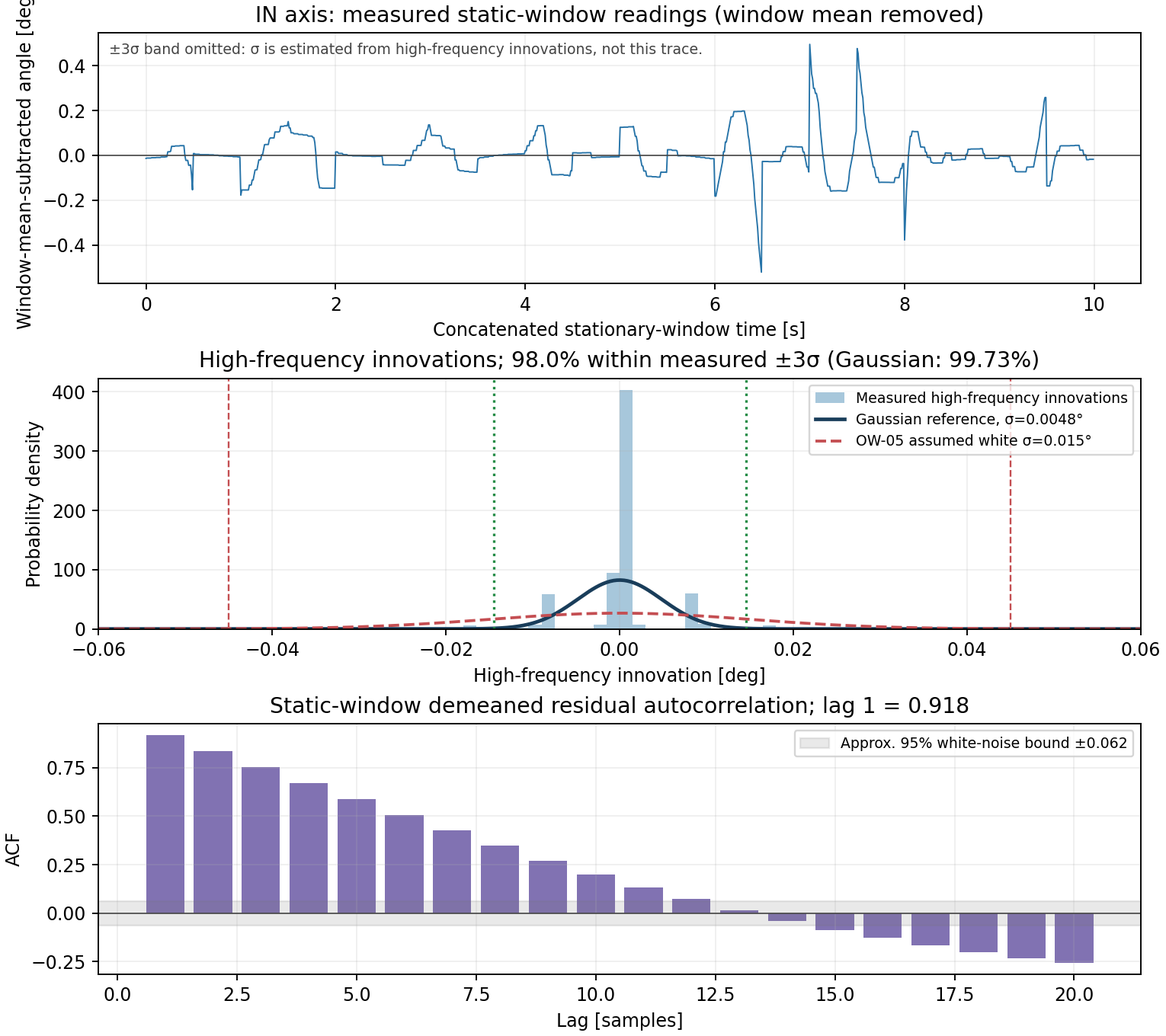
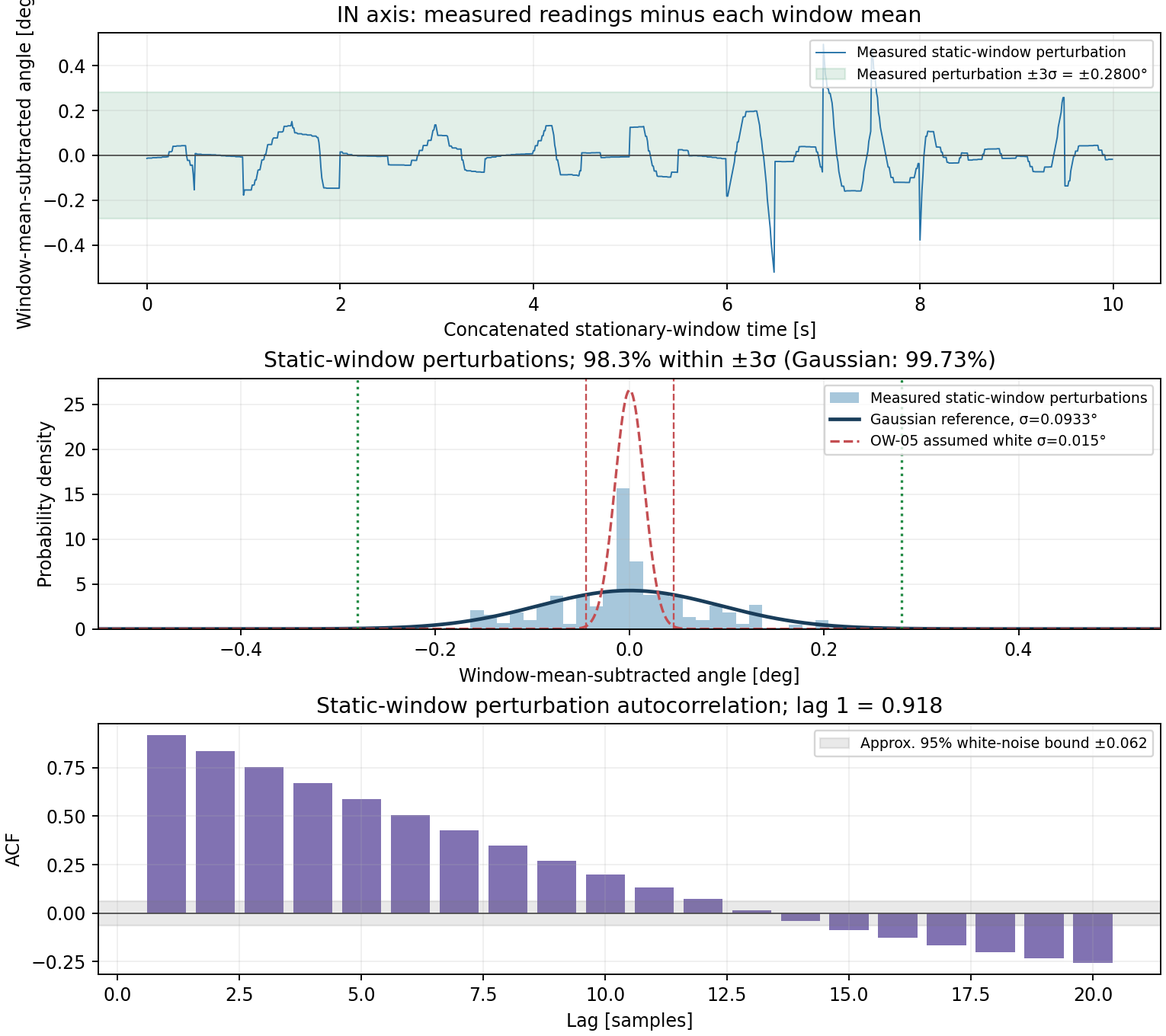
Use static-window mean perturbations for OW-05 sensor variability

diff --git a/06_Analysis/simulation/src/run_ow05_sensor_nonideality.py b/06_Analysis/simulation/src/run_ow05_sensor_nonideality.py
@@ -27,7 +27,7 @@ def write_csv(path, rows):
         w=csv.DictWriter(f,fieldnames=list(rows[0])); w.writeheader(); w.writerows(rows)
 
 def analyze_measured_sensor_noise():
-    """Estimate high-frequency angle noise from stationary pre-release intervals."""
+    """Measure each static-window angle perturbation from its own mean."""
     OUT.mkdir(parents=True,exist_ok=True)
     data_root=REPO/'04_Data/05_Fitting/20260921'
     selection_path=REPO/'06_Analysis/fitting_pipeline/results/20260921/waveform_review/waveform_selection.csv'
@@ -35,7 +35,7 @@ def analyze_measured_sensor_noise():
     selection=selection[(selection['use_for_fitting']==1)&(selection['review_status'].astype(str).str.upper()=='APPROVED')]
     tables={}
     estimates={}
-    window_n=50  # 0.5 s at 100 Hz
+    window_n=50
     for axis in ('IN','OUT'):
       angle_col='angle0[deg]' if axis=='IN' else 'angle1[deg]'
       windows=[]
@@ -50,8 +50,6 @@ def analyze_measured_sensor_noise():
         expected_sign=1.0 if str(record['direction']).upper().startswith('P') else -1.0
         selected=None
         selected_start=None
-        # Search backward for the closest 0.5 s window with a fixed high-angle
-        # hold, low spread and low linear drift, using the original split criteria.
         for end in range(event-10,max(window_n,event-1000),-10):
           start=end-window_n
           x=y[start:end]
@@ -64,40 +62,34 @@ def analyze_measured_sensor_noise():
             break
         if selected is None:
           continue
-        # Remove only each static window's mean: the plotted trace represents
-        # measured high-frequency fluctuation, without removing its waveform.
-        residual=selected-float(np.mean(selected))
-        # For independent sample noise, second difference has variance 1.5*sigma^2.
-        innovations=(residual[1:-1]-0.5*(residual[:-2]+residual[2:]))/np.sqrt(1.5)
+        perturbation=selected-float(np.mean(selected))
         windows.append({'segment_id':str(record['segment_id']),'data_file':relative_path,
                         'direction':str(record['direction']),'start_index':selected_start,
-                        'samples':window_n,'residual':residual,'innovations':innovations})
+                        'samples':window_n,'perturbation':perturbation})
       if not windows:
         raise RuntimeError('No stationary pre-release windows found for '+axis)
-      innovations=np.concatenate([w['innovations'] for w in windows])
-      residuals=[w['residual'] for w in windows]
-      sigma=float(np.std(innovations,ddof=1))
+      perturbations=np.concatenate([w['perturbation'] for w in windows])
+      sigma=float(np.std(perturbations,ddof=1))
       acf=[]
-      denominator=sum(float(np.dot(r,r)) for r in residuals)
+      denominator=sum(float(np.dot(w['perturbation'],w['perturbation'])) for w in windows)
       for lag in range(1,21):
-        numerator=sum(float(np.dot(r[:-lag],r[lag:])) for r in residuals)
+        numerator=sum(float(np.dot(w['perturbation'][:-lag],w['perturbation'][lag:])) for w in windows)
         acf.append(numerator/denominator if denominator>0 else 0.0)
-      normal=normaltest(innovations)
+      normal=normaltest(perturbations)
       estimates[axis]={
-        'n_windows':len(windows),'n_samples':int(sum(len(r) for r in residuals)),
-        'n_innovations':len(innovations),'white_equivalent_sigma_deg':sigma,
-        'three_sigma_deg':3*sigma,'assumed_white_sigma_deg':0.015,
-        'assumed_white_three_sigma_deg':0.045,
-        'innovation_skewness':float(skew(innovations)),
-        'innovation_excess_kurtosis':float(kurtosis(innovations)),
+        'n_windows':len(windows),'n_samples':int(len(perturbations)),
+        'static_perturbation_sigma_deg':sigma,'three_sigma_deg':3*sigma,
+        'assumed_white_sigma_deg':0.015,'assumed_white_three_sigma_deg':0.045,
+        'skewness':float(skew(perturbations)),
+        'excess_kurtosis':float(kurtosis(perturbations)),
         'normality_k2':float(normal.statistic),'normality_p_value':float(normal.pvalue),
-        'fraction_within_three_sigma':float(np.mean(np.abs(innovations)<=3*sigma)),
-        'residual_acf_lag1':float(acf[0]),'acf_95_bound':float(1.96/np.sqrt(sum(len(r) for r in residuals))),
-        'acf':acf,'windows':windows,'innovations':innovations,'residuals':residuals}
-    # Compact machine-readable summary and per-window audit trail.
+        'fraction_within_three_sigma':float(np.mean(np.abs(perturbations)<=3*sigma)),
+        'residual_acf_lag1':float(acf[0]),
+        'acf_95_bound':float(1.96/np.sqrt(len(perturbations))),
+        'acf':acf,'windows':windows,'perturbations':perturbations}
     summary_rows=[]
     for axis,v in estimates.items():
-      summary_rows.append({k:value for k,value in v.items() if k not in ('acf','windows','innovations','residuals')})
+      summary_rows.append({k:value for k,value in v.items() if k not in ('acf','windows','perturbations')})
     write_csv(OUT/'ow05_measured_noise_summary.csv',summary_rows)
     window_rows=[]
     for axis,v in estimates.items():
@@ -105,38 +97,50 @@ def analyze_measured_sensor_noise():
         window_rows.append({'axis':axis,'segment_id':w['segment_id'],'data_file':w['data_file'],
                             'direction':w['direction'],'start_index':w['start_index'],
                             'samples':w['samples'],'duration_s':w['samples']/100.0,
-                            'innovation_sigma_deg':float(np.std(w['innovations'],ddof=1))})
+                            'perturbation_sigma_deg':float(np.std(w['perturbation'],ddof=1))})
     write_csv(OUT/'ow05_measured_noise_windows.csv',window_rows)
     for axis,v in estimates.items():
       fig,axes=plt.subplots(3,1,figsize=(9,8),layout='constrained')
-      residuals=v['residuals']; sigma=v['white_equivalent_sigma_deg']
-      joined=np.concatenate(residuals)
-      axes[0].plot(np.arange(len(joined))*0.01,joined,lw=.8,color='#2673a8')
-      axes[0].text(.01,.96,'±3σ band omitted: σ is estimated from high-frequency innovations, not this trace.',transform=axes[0].transAxes,va='top',fontsize=8,color='#444')
-      axes[0].axhline(0,color='#444',lw=.7); axes[0].set_ylabel('Window-mean-subtracted angle [deg]')
-      axes[0].set_xlabel('Concatenated stationary-window time [s]'); axes[0].set_title(f'{axis} axis: measured static-window readings (window mean removed)')
-      axes[0].legend(loc='upper right'); axes[0].grid(alpha=.2)
-      e=v['innovations']; bins=np.linspace(-0.06,0.06,81)
-      axes[1].hist(e,bins=bins,density=True,color='#79a9c9',alpha=.65,label='Measured high-frequency innovations')
-      xx=np.linspace(-.06,.06,600)
+      perturbations=v['perturbations']; sigma=v['static_perturbation_sigma_deg']
+      axes[0].plot(np.arange(len(perturbations))*0.01,perturbations,lw=.8,color='#2673a8',
+                   label='Measured static-window perturbation')
+      axes[0].axhspan(-3*sigma,3*sigma,color='#4c9f70',alpha=.16,
+                      label=f'Measured perturbation ±3σ = ±{3*sigma:.4f}°')
+      axes[0].axhline(0,color='#444',lw=.7)
+      axes[0].set_ylabel('Window-mean-subtracted angle [deg]')
+      axes[0].set_xlabel('Concatenated stationary-window time [s]')
+      axes[0].set_title(f'{axis} axis: measured readings minus each window mean')
+      axes[0].legend(loc='upper right',fontsize=8); axes[0].grid(alpha=.2)
+      limit=max(float(np.max(np.abs(perturbations))*1.05),3*sigma*1.15)
+      bins=np.linspace(-limit,limit,81)
+      axes[1].hist(perturbations,bins=bins,density=True,color='#79a9c9',alpha=.65,
+                   label='Measured static-window perturbations')
+      xx=np.linspace(-limit,limit,800)
       gaussian=np.exp(-0.5*(xx/sigma)**2)/(sigma*np.sqrt(2*np.pi))
-      model_sigma=.015
+      model_sigma=0.015
       model_gaussian=np.exp(-0.5*(xx/model_sigma)**2)/(model_sigma*np.sqrt(2*np.pi))
-      axes[1].plot(xx,gaussian,color='#193d5a',lw=2,label=f'Gaussian reference, σ={sigma:.4f}°')
-      axes[1].plot(xx,model_gaussian,color='#c44e52',ls='--',lw=1.6,label='OW-05 assumed white σ=0.015°')
-      axes[1].axvline(-3*sigma,color='#238b45',ls=':',lw=1.4); axes[1].axvline(3*sigma,color='#238b45',ls=':',lw=1.4)
-      axes[1].axvline(-3*model_sigma,color='#c44e52',ls='--',lw=1); axes[1].axvline(3*model_sigma,color='#c44e52',ls='--',lw=1)
-      axes[1].set_xlim(-.06,.06); axes[1].set_ylabel('Probability density'); axes[1].set_xlabel('High-frequency innovation [deg]')
-      axes[1].set_title(f"High-frequency innovations; {100*v['fraction_within_three_sigma']:.1f}% within measured ±3σ (Gaussian: 99.73%)")
+      axes[1].plot(xx,gaussian,color='#193d5a',lw=2,
+                   label=f'Gaussian reference, σ={sigma:.4f}°')
+      axes[1].plot(xx,model_gaussian,color='#c44e52',ls='--',lw=1.4,
+                   label='OW-05 assumed white σ=0.015°')
+      axes[1].axvline(-3*sigma,color='#238b45',ls=':',lw=1.4)
+      axes[1].axvline(3*sigma,color='#238b45',ls=':',lw=1.4)
+      axes[1].axvline(-3*model_sigma,color='#c44e52',ls='--',lw=1)
+      axes[1].axvline(3*model_sigma,color='#c44e52',ls='--',lw=1)
+      axes[1].set_xlim(-limit,limit); axes[1].set_ylabel('Probability density')
+      axes[1].set_xlabel('Window-mean-subtracted angle [deg]')
+      axes[1].set_title(f"Static-window perturbations; {100*v['fraction_within_three_sigma']:.1f}% within ±3σ (Gaussian: 99.73%)")
       axes[1].legend(loc='upper right',fontsize=8); axes[1].grid(alpha=.2)
       lags=np.arange(1,len(v['acf'])+1); bound=v['acf_95_bound']
-      axes[2].bar(lags,v['acf'],color='#8172b2',width=.8); axes[2].axhline(0,color='#444',lw=.7)
-      axes[2].axhspan(-bound,bound,color='#777',alpha=.16,label=f'Approx. 95% white-noise bound ±{bound:.3f}')
-      axes[2].set_xlabel('Lag [samples]'); axes[2].set_ylabel('ACF'); axes[2].set_title(f"Static-window demeaned residual autocorrelation; lag 1 = {v['residual_acf_lag1']:.3f}")
+      axes[2].bar(lags,v['acf'],color='#8172b2',width=.8)
+      axes[2].axhline(0,color='#444',lw=.7)
+      axes[2].axhspan(-bound,bound,color='#777',alpha=.16,
+                      label=f'Approx. 95% white-noise bound ±{bound:.3f}')
+      axes[2].set_xlabel('Lag [samples]'); axes[2].set_ylabel('ACF')
+      axes[2].set_title(f"Static-window perturbation autocorrelation; lag 1 = {v['residual_acf_lag1']:.3f}")
       axes[2].legend(loc='upper right',fontsize=8); axes[2].grid(alpha=.2)
       fig.savefig(OUT/f'ow05_measured_noise_{axis.lower()}.png',dpi=170); plt.close(fig)
     return estimates
-
 def run():
     cfg=json.loads((SIM/'config/ow03_hbk_observer_tuning.json').read_text())
     scfg=json.loads((SIM/'config/sensor_model_stage3.json').read_text())
@@ -232,16 +236,19 @@ def run():
       vals={r['method']:r for r in rows if r['case']==cname and r['axis']==axis and r['sensor_case']=='nominal'}
       report.append(f"| {cname} | {axis} | {vals['ESO 3状態']['rmse_m_s']:.5f} m/s | {vals['RTS 3状態（オフライン）']['rmse_m_s']:.5f} m/s |")
     report += ['', '## センサー条件', '',f"角度サンプルは{rate:.0f} Hz、MT6701の14 bit（量子化幅{360/2**14:.8f}°）、白色ノイズσ={pars.white_noise_std_deg:.3f}°、有色ノイズσ={pars.coloured_noise_std_deg:.3f}°・時定数{pars.coloured_noise_time_constant_s:.3f} s、固定遅延{pars.fixed_delay_s*1000:.0f} msを公称条件とした。センサー段階評価に従った設定であり、量子化/サンプリング仕様以外のノイズと遅延は実測前の暫定仮定である。感度としてノイズσを2倍にした条件も計算した。", '',
-      '## MT6701の計測角出力誤差と静止区間の変動','',
-      '本レポートでは、MT6701を含む計測系を真の角度 $\\theta_{\\mathrm{true}}$ から計測角 $\\theta_{\\mathrm{meas}}$ への変換と定義し、センサー出力誤差 $e_s=\\theta_{\\mathrm{meas}}-\\theta_{\\mathrm{true}}$ には量子化や内部信号処理の誤差も含める。今回のログには同時刻の真角度基準がないため、この誤差を直接計算できない。自由振動開始前のリリース直前から、符号付き角度35°超、0.5秒間の標準偏差0.20°未満、線形ドリフト1°/s未満となる静止窓を抽出し、計測角の変動を評価した。一次傾向を除いた残差 r_i に二階差分 $e_i=(r_i-(r_{i-1}+r_{i+1})/2)/\\sqrt{1.5}$ を適用した。独立な白色成分なら変換後のσはその成分の標準偏差に対応するが、実角度の微小変化も混在し得る。以下のσはセンサー出力誤差ではなく、記録された計測角の高周波変動相当値である。', '',
-      '| 軸 | 静止窓数 | 高周波点数 | 計測角変動相当σ [°] | 変動相当±3σ [°] | OW-05仮定白色σ [°] | 仮定/変動相当 |','|---|---:|---:|---:|---:|---:|---:|']
+     ]
+    report += ['', '## MT6701の計測角出力誤差と静止窓内の摂動','',
+      '今回の目的は、センサー単体の誤差を同定することではなく、静止と判定した窓で記録角が窓平均からどれだけ変動したかを把握することである。各窓の平均だけを差し引き、摂動 r_i=y_i-mean(y_window) をそのまま評価した。二階差分は使わない。静止判定条件は、符号付き角度35°超、0.5秒窓の標準偏差0.20°未満、線形ドリフト1°/s未満である。', '',
+      '静止窓内の摂動標準偏差は、全選定窓の r_i を結合して算出した。これは記録角に現れた窓内変動であり、真角度基準がないため、実際の微小運動とセンサー出力変動を分離できない。センサー出力誤差 e_s=θ_meas-θ_true やセンサー単体ノイズとは区別する。', '',
+      '| 軸 | 静止窓数 | 摂動点数 | 摂動σ [°] | ±3σ [°] | ±3σ内 [%] | 正規性検定 p値 | ラグ1自己相関 |','|---:|---:|---:|---:|---:|---:|---:|---:|']
     for axis,v in measured_noise.items():
-      report.append(f"| {axis} | {v['n_windows']} | {v['n_innovations']} | {v['white_equivalent_sigma_deg']:.5f} | ±{v['three_sigma_deg']:.5f} | 0.01500 | {0.015/v['white_equivalent_sigma_deg']:.2f}× |")
-    report += ['', '図の上段の青線は静止窓で実際に記録した計測角から一次傾向を除いた残差である。中央の棒はその残差から計算した高周波変動の実測分布である。濃い青線は実測波形ではなく、表の計測角変動相当σを用いて重ねた正規分布の参考曲線（Gaussian fit）である。正規性検定では両軸とも正規分布を棄却し（p<0.001）、ラグ1自己相関も白色雑音の95%目安範囲を大きく超えたため、この曲線は実データに適合する分布を示すものではない。下段は残差の自己相関である。したがって、観測された計測角変動を正規白色雑音とみなす仮定は支持されない。機械の微小振動や計測系の影響も含まれ得る。', '',
-      '変動相当±3σ内の比率はIN {:.1f}%、OUT {:.1f}%（理想正規分布の99.73%）だった。図の赤破線はOW-05仮定白色σ=0.015°の±3σ、緑点線は計測角変動相当値から求めた±3σである。いずれも計測角変動に対する表示で、センサー出力誤差の包含率を示さない。'.format(100*measured_noise['IN']['fraction_within_three_sigma'],100*measured_noise['OUT']['fraction_within_three_sigma']), '',
-      '14 bit角度量子化幅は{:.5f}°で、計測角変動相当σより大きい。これは分解能と記録変動の比較であり、センサー出力誤差がこの幅以下または以上という意味ではない。真角度の独立基準なしでは、量子化を含むセンサー出力誤差の大きさや3σ幅は決められない。誤差幅を求めるには、MT6701と同時に十分な精度の独立角度基準を記録する必要がある。'.format(360/2**14), '']
+      report.append(f"| {axis} | {v['n_windows']} | {v['n_samples']} | {v['static_perturbation_sigma_deg']:.5f} | ±{v['three_sigma_deg']:.5f} | {100*v['fraction_within_three_sigma']:.1f} | {v['normality_p_value']:.2e} | {v['residual_acf_lag1']:.3f} |")
+    report += ['', '上段の青線は各静止窓の平均値からの実測摂動、緑帯は同じ摂動列から計算した±3σである。中央のヒストグラムと緑の破線も同じ摂動列に対する表示である。図の時系列・分布・包含率の対象は一致している。', '',
+      '±3σは絶対的な上下限ではない。正規分布なら約99.73%が範囲内に入るが、今回の摂動は正規性検定で棄却された（両軸 p<0.001）。観測包含率はIN {:.1f}%、OUT {:.1f}%である。ラグ1自己相関も高く、独立白色ノイズとはみなせない。'.format(100*measured_noise['IN']['fraction_within_three_sigma'],100*measured_noise['OUT']['fraction_within_three_sigma']), '',
+      '参考として、従来の二階差分方式で得た高周波変動相当σはIN 0.00484°、OUT 0.00554°だった。今回の静止窓摂動σはそれぞれ約{:.1f}倍、{:.1f}倍であり、二階差分が窓内変動全体を表していなかったことが分かる。この倍率はセンサー誤差の過小評価率ではない。今回の摂動σにも治具などの微小運動が含まれ得る。'.format(measured_noise['IN']['static_perturbation_sigma_deg']/0.00484014296,measured_noise['OUT']['static_perturbation_sigma_deg']/0.00554022955), '',
+      'MT6701の14 bit角度量子化幅は{:.5f}°である。今回の摂動σとの比較は記録変動の大きさを示すだけで、量子化誤差やセンサー出力誤差を分離するものではない。センサー誤差の幅やリニアリティを求めるには、十分な精度の独立した角度基準との同時測定が必要である。'.format(360/2**14), '']
     for axis in ('IN','OUT'):
-      report += [f"![{axis} axis measured noise histogram and 3 sigma](ow05_measured_noise_{axis.lower()}.png)",'']
+      report += [f"![{axis} axis: static-window perturbation, histogram and autocorrelation](ow05_measured_noise_{axis.lower()}.png)",'']
     report += ['詳細値は `ow05_measured_noise_summary.csv`、使用した静止区間は `ow05_measured_noise_windows.csv` に保存した。', '',
       '## 今回特定できた誤差範囲と今後の課題','',
       'センサーを真角度 $\\\\theta_{\\\\mathrm{true}}$ から計測角 $\\\\theta_{\\\\mathrm{meas}}$ への変換系と定義すると、評価対象は $e_s(\\\\theta,t)=\\\\theta_{\\\\mathrm{meas}}(\\\\theta,t)-\\\\theta_{\\\\mathrm{true}}(t)$ である。誤差要因は次のように整理できる。','',
@@ -249,10 +256,10 @@ def run():
       '| 分解能・量子化 | 有限の角度コード幅とコード化誤差 | OW-05モデルで14 bit、1 LSB=0.02197266°として設定。これは刻み幅であり、真角度との誤差や全体精度の上限ではない |',
       '| オフセット・ゼロ点 | 計測角の基準ずれ | 真角度基準がなく未特定 |',
       '| ゲイン・リニアリティ | 角度に応じた傾き誤差、非直線性 | 未特定。今回のσや±3σからは評価できない |',
-      '| 繰返し性・時間変動 | 同じ真角度での出力ばらつき、電子的な揺れ | 真角度を固定した基準測定がなく、センサー分は分離できていない。今回算出したIN σ=0.00484°、OUT σ=0.00554°は、静止区間の記録角から求めた高周波変動相当値 |',
+      f"| 繰返し性・時間変動 | 同じ真角度での出力ばらつき、電子的な揺れ | 真角度を固定した基準測定がなく、センサー分は分離できていない。今回算出したIN σ={measured_noise['IN']['static_perturbation_sigma_deg']:.5f}°、OUT σ={measured_noise['OUT']['static_perturbation_sigma_deg']:.5f}°は、静止窓の平均からの摂動標準偏差 |",
       '| 動的応答・タイミング | 内部フィルタ、遅れ、サンプリング時刻の揺れ | OW-05では100 Hz、固定遅延10 ms等をモデル仮定として設定。実機の遅延・帯域・ジッタは未測定 |',
       '| 取付け・磁気条件 | 芯ずれ、傾き、磁石配置や磁場状態による角度依存誤差 | 実機条件での角度基準比較がなく未特定 |','',
-      'したがって、今回数値として特定したのは、モデルに設定した14 bitのコード刻み幅と、自由振動開始前の静止窓に現れた計測角の高周波変動相当幅です。センサー出力誤差 $e_s$ の最大幅、リニアリティ誤差、センサー単体のノイズ幅は今回特定できていません。図に示した±3σも高周波変動相当値の範囲であり、センサー出力誤差の範囲ではありません。','',
+      f'今回数値としてまとめたのは、モデルに設定した14 bitのコード刻み幅と、静止窓で計測角が各窓平均から変動した標準偏差（IN {measured_noise["IN"]["static_perturbation_sigma_deg"]:.5f}°、OUT {measured_noise["OUT"]["static_perturbation_sigma_deg"]:.5f}°）です。センサー出力誤差 $e_s$ の最大幅、リニアリティ誤差、センサー単体ノイズは特定できていません。図の±3σは静止窓摂動の範囲を要約し、センサー出力誤差の範囲を示すものではありません。','',
       '### 今後の試験メニュー','','1. **独立角度基準との同時測定**  ','   MT6701の使用時と同じ磁石・取付け・配線・読み出し処理を用い、精度が既知の角度基準と同期して記録する。基準器の誤差は、評価したいセンサー誤差より十分小さくする。生の読み値、変換後の角度、時刻も保存する。','','2. **使用角度範囲の静的な往復掃引**  ','   角度を複数点で止めて安定後に記録し、正方向・逆方向に複数回掃引する。基準との差から、ゼロ点オフセット、ゲイン誤差、リニアリティを求める。リニアリティは採用した基準直線を明示し、直線からの最大偏差と偏差幅で示す。往復差も角度ごとに評価する。','','3. **固定角度での繰返し測定**  ','   使用範囲内の複数角度で真角度を固定し、同じ条件で繰り返し記録する。センサー出力の繰返し性、時間変動、高周波ノイズを評価する。量子化の影響を見落とさないよう、一つの角度だけでなく複数角度で測る。','','4. **既知の角度運動による動的応答試験**  ','   基準角を同時記録しながら、複数の速度・周波数で角度を動かす。固定遅延、帯域、振幅誤差、サンプリング時刻の揺れを、静的な角度誤差と分けて確認する。','','5. **使用環境の影響確認**  ','   必要に応じて温度、電源、磁石の位置・取付け状態を変えて、角度誤差と再現性への影響を測る。まず実使用条件を優先する。','','6. **誤差幅の集計**  ','   真角度との差の角度依存曲線、最大絶対誤差、リニアリティ、往復差、繰返し性、時間変動、動的遅れを分けて報告する。ヒストグラム・自己相関も確認し、正規性と白色性が妥当な場合に限って±3σをノイズ幅の目安とする。','','まずは **1の基準器との同時測定**と **2の静的往復掃引**を優先する。今回の記録角変動相当σおよび±3σは、これらの試験で真角度基準との差を測定するまで、センサー出力誤差の幅として扱わない。','',
       '## 角度ノイズから風速への増幅倍率','', r'線形基準は、ノイズなしセンサー角度θ₀の近傍における静的な角度→風速写像の傾きで求めた。各時点の角度摂動Δθを、局所傾き g(θ₀)=dV/dθ（θ=θ₀で評価）に掛け、線形基準風速摂動 $v_{\mathrm{lin}}(t)=g(\theta_0(t))\Delta\theta(t)$ とした。角度摂動は、遅延・ゲイン・オフセット・量子化・ジッタを保って乱数ノイズだけを0にしたセンサー出力との差である。局所線形近似の妥当性確認として $\lvert\Delta\theta\rvert \leq 0.1\lvert\theta_0\rvert$ を満たす評価点の割合も記載した。これを満たさない時点では、線形基準倍率を慎重に解釈する。観測器側は、同一条件におけるノイズあり/なし推定出力差 $\Delta\hat{V}$ を全評価時点（15秒以降）で比較した。RMSE倍率は $\mathrm{RMS}(\Delta\hat{V})/\mathrm{RMS}(v_{\mathrm{lin}})$、最大値倍率は $\max_t \lvert\Delta\hat{V}(t)\rvert/\max_t \lvert v_{\mathrm{lin}}(t)\rvert$ である。', '']
     for cname,axis in plants:
@@ -267,7 +274,7 @@ def run():
     for name in figs: report += [f'![OW-05 拡大時系列]({name})','']
     report += ['## 解釈と選定','', 'RTS（Rauch–Tung–Striebel）スムーザーは、まず時系列を前向きに推定し、その後、将来の観測も使って過去の状態推定を後向きに修正する。時間的に独立なホワイトノイズによる一時的な観測の揺れが、運動モデルや前後の観測と整合しない場合、その揺れを実際の状態変化ではなく観測ノイズとして扱いやすくなり、推定への影響を弱められる。これは未来の観測が過去の観測ノイズを物理的に打ち消すという意味ではなく、全時系列に最も整合する状態系列を再推定する効果である。', '', 'この平滑化は、運動モデルが十分妥当で、観測ノイズとモデル誤差の大きさ（観測・プロセス雑音の共分散）が適切に設定されていることを前提とする。ノイズが時間相関を持つ場合、その影響は独立な白色ノイズほど平均化されない。また、実際の急な風速変化をモデルが説明できないときに平滑化が強すぎると、真の変化まで抑えたり、遅らせたりする可能性がある。したがって、オフラインRTSは必ずノイズに強いわけではなく、今回の低い誤差をホワイトノイズ単独の効果と断定することもできない。今回のセンサー条件には白色ノイズに加えて有色ノイズも含まれるため、成分ごとの寄与を分けるには追加の比較が必要である。', '', 'RTS 3状態は将来データを使うオフライン評価であるため、RMSEが小さくてもオンライン実装候補とは分ける。オンライン用途はESO 3状態を候補とし、公称ノイズ条件に対する帯域選定を反映した値を使用する。RTSはログ解析や遅延許容用途の基準として残す。ノイズ2倍感度を含む推定誤差は `ow05_metrics.csv`、増幅倍率は `ow05_noise_amplification.csv`、調整スキャンは `ow05_tuning_scan.csv` に保存した。', '', '## 再実行','', '```bash','python 06_Analysis/simulation/src/run_ow05_sensor_nonideality.py','```','']
     (OUT/'OW-05_REPORT.md').write_text('\n'.join(report),encoding='utf-8')
-    summary={'task_id':'OW-05','sensor_nominal':nominal,'measured_sensor_noise':{a:{k:v for k,v in d.items() if k not in ('acf','windows','innovations','residuals')} for a,d in measured_noise.items()},'noise_amplification':noise_rows,'tuning_by_axis_method':{f'{a}|{m}':v for (a,m),v in tunings.items()},'results':rows}
+    summary={'task_id':'OW-05','sensor_nominal':nominal,'measured_sensor_noise':{a:{k:v for k,v in d.items() if k not in ('acf','windows','perturbations')} for a,d in measured_noise.items()},'noise_amplification':noise_rows,'tuning_by_axis_method':{f'{a}|{m}':v for (a,m),v in tunings.items()},'results':rows}
     (OUT/'ow05_summary.json').write_text(json.dumps(summary,ensure_ascii=False,indent=2,allow_nan=False)+'\n',encoding='utf-8')
     print('rows',len(rows),'tunings',tunings)
 

diff --git a/06_Analysis/simulation/results/observer_wind/ow05_sensor_nonideality/OW-05_REPORT.md b/06_Analysis/simulation/results/observer_wind/ow05_sensor_nonideality/OW-05_REPORT.md
@@ -17,26 +17,28 @@ OW-03で角度±60°内だった独立Kaimal乱流（平均2 m/s、TI 20%）と2
 
 角度サンプルは100 Hz、MT6701の14 bit（量子化幅0.02197266°）、白色ノイズσ=0.015°、有色ノイズσ=0.010°・時定数0.475 s、固定遅延10 msを公称条件とした。センサー段階評価に従った設定であり、量子化/サンプリング仕様以外のノイズと遅延は実測前の暫定仮定である。感度としてノイズσを2倍にした条件も計算した。
 
-## MT6701の計測角出力誤差と静止区間の変動
+## MT6701の計測角出力誤差と静止窓内の摂動
 
-本レポートでは、MT6701を含む計測系を「真の角度 $\\theta_{\\mathrm{true}}$ から計測角 $\\theta_{\\mathrm{meas}}$ への変換」と定義する。センサー出力誤差は $e_s=\\theta_{\\mathrm{meas}}-\\theta_{\\mathrm{true}}$ とし、量子化やセンサー内の信号処理による誤差も含める。
+今回の目的は、センサー単体の誤差を同定することではなく、静止と判定した窓で記録角が窓平均からどれだけ変動したかを把握することである。各0.5秒窓の平均だけを差し引き、摂動 $r_i=y_i-\bar{y}_{\mathrm{window}}$ をそのまま評価した。二階差分は使用しない。静止窓は、符号付き角度35°超、標準偏差0.20°未満、線形ドリフト1°/s未満の条件で抽出した。
 
-今回の角度ログには同時刻の真角度基準がないため、$e_s$ を直接求めることはできない。そこで、自由振動開始前のリリース直前から静止条件を満たす0.5秒窓（符号付き角度35°超、標準偏差0.20°未満、線形ドリフト1°/s未満）を抽出し、記録された計測角の変動を評価した。各静止窓で平均値だけを差し引いた残差 $r_i=y_i-\bar{y}_{\mathrm{window}}$ に隣接点二階差分 $e_i=(r_i-(r_{i-1}+r_{i+1})/2)/\\sqrt{1.5}$ を適用した。独立な白色成分を仮定すれば、この変換後の標準偏差は元の変動成分のσに対応する。下表のσは**計測角の高周波変動相当値**であり、真角度との差として定義したMT6701のセンサー出力誤差そのものではない。実角度の微小変化も記録角に含まれる可能性がある。
+σは、各窓の平均を引いた摂動を全窓分結合して計算した標準偏差である。この値には、センサー出力の変動に加えて、治具や機械の微小運動が含まれる可能性がある。真角度の独立基準がないため、それらをセンサー単体の誤差から分離できない。
 
-| 軸 | 静止窓数 | 高周波点数 | 計測角変動相当σ [°] | 変動相当±3σ [°] | OW-05仮定白色σ [°] | 仮定/変動相当 |
-|---|---:|---:|---:|---:|---:|---:|
-| IN | 20 | 960 | 0.00484 | ±0.01452 | 0.01500 | 3.10× |
-| OUT | 24 | 1152 | 0.00554 | ±0.01662 | 0.01500 | 2.71× |
+| 軸 | 静止窓数 | 摂動点数 | 摂動σ [°] | ±3σ [°] | ±3σ内 [%] | 正規性検定 p値 | ラグ1自己相関 |
+|---|---:|---:|---:|---:|---:|---:|---:|
+| IN | 20 | 1000 | 0.09334 | ±0.28001 | 98.3 | 8.69×10⁻³³ | 0.918 |
+| OUT | 24 | 1200 | 0.10127 | ±0.30381 | 99.1 | 3.72×10⁻²⁷ | 0.929 |
 
-図の上段の青線は、各静止窓で実際に記録した計測角から、その窓内の平均値だけを引いた実測値である。線形トレンド除去や平滑化はしていない。中央の棒は、この平均差し引き後の波形から二階差分で抽出した高周波イノベーションの実測分布である。濃い青線は実測波形ではなく、イノベーションの標準偏差を用いて重ねた正規分布の参考曲線（Gaussian reference）である。正規性検定では両軸とも正規分布を棄却し（p<0.001）、ラグ1自己相関も白色雑音の95%目安範囲を大きく超えたため、この曲線は実データに適合する分布を示すものではない。下段は窓平均差し引き後の実測値の自己相関である。したがって、観測された変動を正規白色雑音とみなす仮定は支持されない。±3σ内の比率IN 98.0%、OUT 98.7%は、二階差分で得た**高周波イノベーション**を対象に数えた値である（理想正規分布なら99.73%）。窓平均を引いた実測波形とイノベーションは別の系列であり、イノベーションから推定したσを実測波形の時系列に帯として重ねてはならない。従来図の上段にあった緑帯はこの不一致を生むため、再生成図では除く。3σ線と包含率はイノベーションのヒストグラムにだけ表示する。図の赤破線は同ヒストグラム上でOW-05仮定σ=0.015°の±3σを示す。これらはいずれも真角度に対するセンサー出力誤差の包含率ではない。
+上段の青線は各窓平均からの実測摂動、緑帯は同じ摂動列から求めた±3σである。中央のヒストグラムと緑の破線も同じ摂動列を表すため、時系列・分布・包含率の対象は一致している。±3σは絶対的な上下限ではない。正規分布なら約99.73%が範囲内に入る一方、今回の摂動は正規性検定で棄却され、ラグ1自己相関も大きいため、独立な正規白色ノイズとはみなせない。実測の±3σ内率はIN 98.3%、OUT 99.1%だった。
 
-14 bitの量子化幅は0.02197°で、計測角変動相当σより大きい。これは分解能と記録変動の比較であって、センサー出力誤差がこの幅以下または以上だという意味ではない。真角度基準なしでは、量子化を含むセンサー出力誤差の大きさや3σ幅は決められない。誤差幅を求めるには、MT6701と同時に、十分な精度の独立した角度基準を記録する必要がある。
+従来の二階差分方式で得た高周波変動相当σはIN 0.00484°、OUT 0.00554°で、今回の窓内摂動σはそれぞれ約19.3倍、18.3倍だった。二階差分方式は窓内変動全体を表していなかったことが分かる。この倍率はセンサー誤差の過小評価率を示すものではない。今回の摂動σにも実際の微小運動が含まれ得る。
 
-![IN axis measured angle fluctuation and 3 sigma](ow05_measured_noise_in.png)
+MT6701の14 bit角度量子化幅は0.02197°である。今回のσとの比較は記録変動の大きさを示すだけで、量子化誤差やセンサー出力誤差を分離するものではない。センサー誤差の幅やリニアリティを求めるには、十分な精度の独立した角度基準との同時測定が必要である。
 
-![OUT axis measured angle fluctuation and 3 sigma](ow05_measured_noise_out.png)
+![IN axis: static-window perturbation, histogram and autocorrelation](ow05_measured_noise_in.png)
 
-詳細値は `ow05_measured_noise_summary.csv`、使用した静止区間は `ow05_measured_noise_windows.csv` に保存した。
+![OUT axis: static-window perturbation, histogram and autocorrelation](ow05_measured_noise_out.png)
+
+詳細値は ow05_measured_noise_summary.csv、使用した静止区間は ow05_measured_noise_windows.csv に保存した。
 
 ## 今回特定できた誤差範囲と今後の課題
 
@@ -47,11 +49,11 @@ OW-03で角度±60°内だった独立Kaimal乱流（平均2 m/s、TI 20%）と2
 | 分解能・量子化 | 有限の角度コード幅とコード化誤差 | OW-05モデルで14 bit、1 LSB=0.02197266°として設定。これは刻み幅であり、真角度との誤差や全体精度の上限ではない |
 | オフセット・ゼロ点 | 計測角の基準ずれ | 真角度基準がなく未特定 |
 | ゲイン・リニアリティ | 角度に応じた傾き誤差、非直線性 | 未特定。今回のσや±3σからは評価できない |
-| 繰返し性・時間変動 | 同じ真角度での出力ばらつき、電子的な揺れ | 真角度を固定した基準測定がなく、センサー分は分離できていない。今回算出したIN σ=0.00484°、OUT σ=0.00554°は、静止区間の記録角から求めた高周波変動相当値 |
+| 繰返し性・時間変動 | 同じ真角度での出力ばらつき、電子的な揺れ | 真角度を固定した基準測定がなく、センサー分は分離できていない。今回算出したIN σ=0.09334°、OUT σ=0.10127°は、各静止窓の平均からの摂動標準偏差 |
 | 動的応答・タイミング | 内部フィルタ、遅れ、サンプリング時刻の揺れ | OW-05では100 Hz、固定遅延10 ms等をモデル仮定として設定。実機の遅延・帯域・ジッタは未測定 |
 | 取付け・磁気条件 | 芯ずれ、傾き、磁石配置や磁場状態による角度依存誤差 | 実機条件での角度基準比較がなく未特定 |
 
-したがって、今回数値として特定したのは、モデルに設定した14 bitのコード刻み幅と、自由振動開始前の静止窓に現れた計測角の高周波変動相当幅です。センサー出力誤差 $e_s$ の最大幅、リニアリティ誤差、センサー単体のノイズ幅は今回特定できていません。図に示した±3σも高周波変動相当値の範囲であり、センサー出力誤差の範囲ではありません。
+したがって、今回数値として特定したのは、モデルに設定した14 bitのコード刻み幅と、自由振動開始前の静止窓に現れた計測角の窓平均からの摂動標準偏差です。センサー出力誤差 $e_s$ の最大幅、リニアリティ誤差、センサー単体のノイズ幅は今回特定できていません。図に示した±3σは静止窓摂動の分布を要約した範囲であり、センサー出力誤差の範囲ではありません。
 
 ### 今後の試験メニュー
 
@@ -73,7 +75,7 @@ OW-03で角度±60°内だった独立Kaimal乱流（平均2 m/s、TI 20%）と2
 6. **誤差幅の集計**  
    真角度との差の角度依存曲線、最大絶対誤差、リニアリティ、往復差、繰返し性、時間変動、動的遅れを分けて報告する。ヒストグラム・自己相関も確認し、正規性と白色性が妥当な場合に限って±3σをノイズ幅の目安とする。
 
-まずは **1の基準器との同時測定**と **2の静的往復掃引**を優先する。今回の記録角変動相当σおよび±3σは、これらの試験で真角度基準との差を測定するまで、センサー出力誤差の幅として扱わない。
+まずは **1の基準器との同時測定**と **2の静的往復掃引**を優先する。今回の静止窓摂動σおよび±3σは、これらの試験で真角度基準との差を測定するまで、センサー出力誤差の幅として扱わない。
 
 ## 角度ノイズから風速への増幅倍率
 
